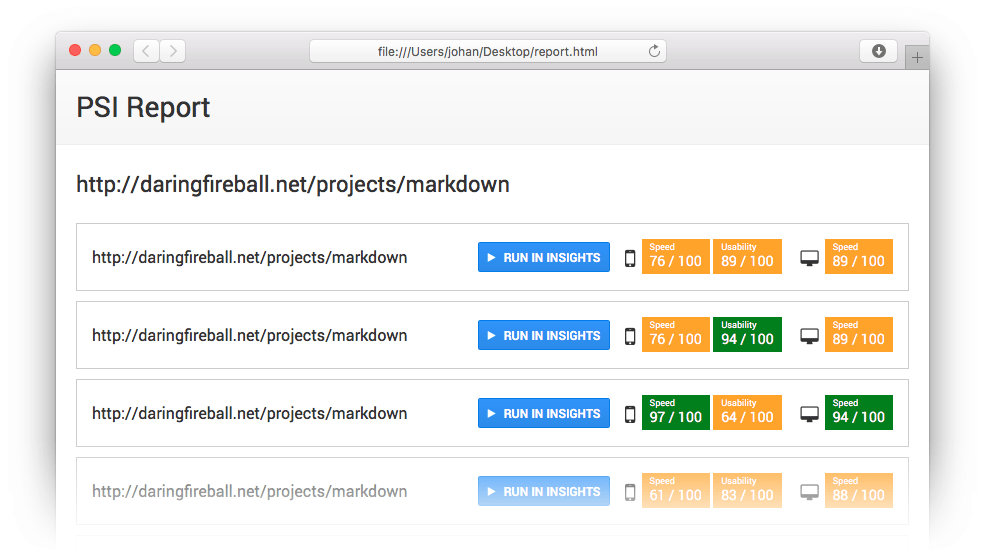
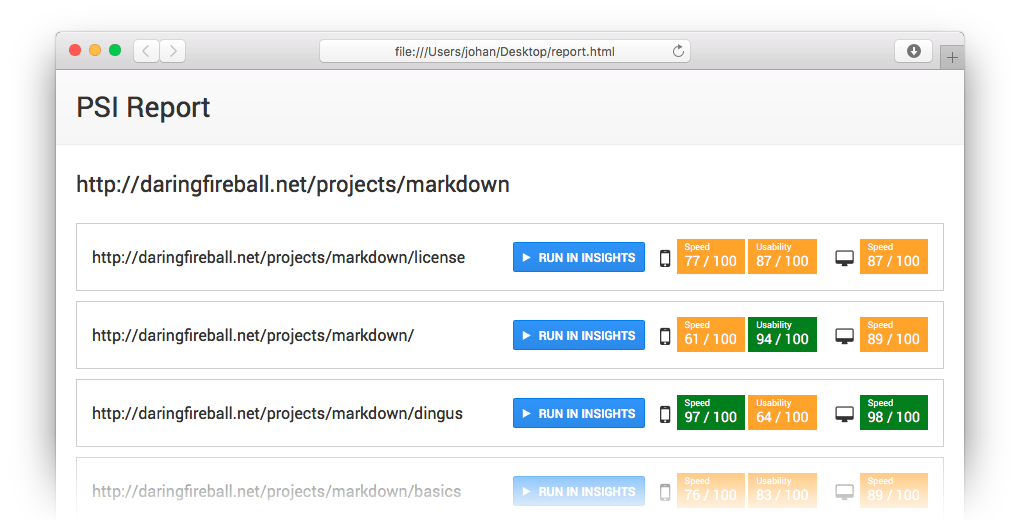
Adds info in readme, updates screenshot

Changed region(s): [[0.0609, 0.4, 0.9442, 0.9846], [0.0305, 0.0615, 0.9442, 0.2462], [0.0609, 0.3077, 0.5178, 0.3692]]

diff --git a/readme.md b/readme.md
@@ -24,7 +24,8 @@ Crawls a website, gets [PageSpeed Insights](https://developers.google.com/speed/
 Install with [npm](https://www.npmjs.com/):
 
 ```bash
-npm install -g psi-report
+$ npm install psi-report --global
+# --global isn't required if you plan to use the node module
 ```
 
 ## CLI usage
@@ -42,11 +43,10 @@ $ psi-report daringfireball.net/projects/markdown /Users/johan/Desktop/report.ht
 ## Programmatic usage
 
 ```javascript
-var PSIReport = require('psi-report');
+// Basic usage: crawls a website and returns an array of page with the PSI results
 
+var PSIReport = require('psi-report');
 var psi_report = new PSIReport({baseurl: 'http://domain.org'}, onComplete);
-psi_report.on('fetch_url', onFetchURL);
-psi_report.on('fetch_psi', onFetchPSI);
 reporter.start();
 
 function onComplete(baseurl, data)
@@ -55,11 +55,14 @@ function onComplete(baseurl, data)
     console.log(data);
 }
 
+// The "fetch_url" and "fetch_psi" events allow to monitor the crawling process
+psi_report.on('fetch_url', onFetchURL);
 function onFetchURL(error, url)
 {
     console.log((error ? 'Error with URL: ' : 'Fetched URL: ') + url);
 }
 
+psi_report.on('fetch_psi', onFetchPSI);
 function onFetchPSI(error, url, strategy)
 {
     console.log((error ? 'Error with PSI for ' : 'PSI data (' + strategy + ') fetched for ') + url);
@@ -76,6 +79,8 @@ However, `https://daringfireball.net/projects/markdown/` will crawl only:
 
 * `https://daringfireball.net/projects/markdown/`
 * `https://daringfireball.net/projects/markdown/basics`
+* `https://daringfireball.net/projects/markdown/syntax`
+* `https://daringfireball.net/projects/markdown/license`
 * And so on
 
 ## Changelog
